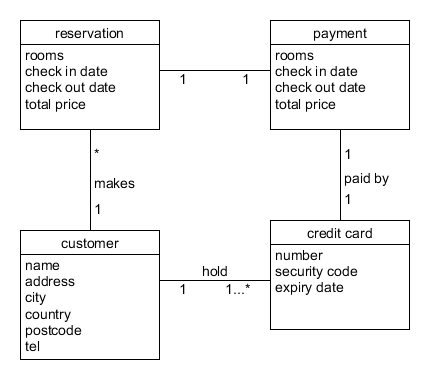
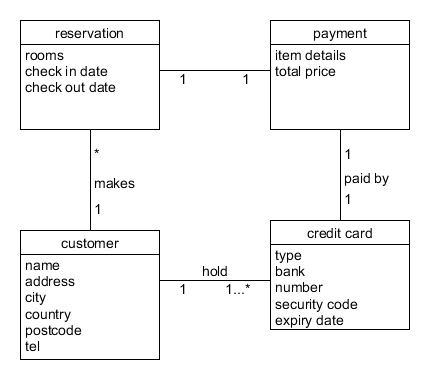
update

Changed region(s): [[0.6349, 0.6658, 0.8465, 0.8684], [0.6349, 0.1158, 0.8465, 0.2895], [0.0605, 0.2605, 0.2116, 0.2895]]

diff --git a/hw9.md b/hw9.md
@@ -24,14 +24,20 @@
 
 	traveler(name,email)
 
-  - 对payment 用例开展领域建模
+- 对payment 用例开展领域建模
 
-    ![week9_payment](.\Pictures\week9_payment.png)
-    
+  ![week9_payment](.\Pictures\week9_payment.png)
+  
   - 数据建模
-
-  	
+  
+  	Reservation(rooms, check in date,check out date)
+  
+  	customer(name,address,city,country,postcode,tel)
+  
+  	payment(item details, total price)
+  
+  	credit card(type, bank, number, security code, expiry date)
 
 2. 使用 UML State Model，对每个订单对象生命周期建模
 
-	![week9_lifeccycle](.\Pictures\week9_lifeccycle.png)
+	![week9_lifecycle](.\Pictures\week9_lifecycle.png)
